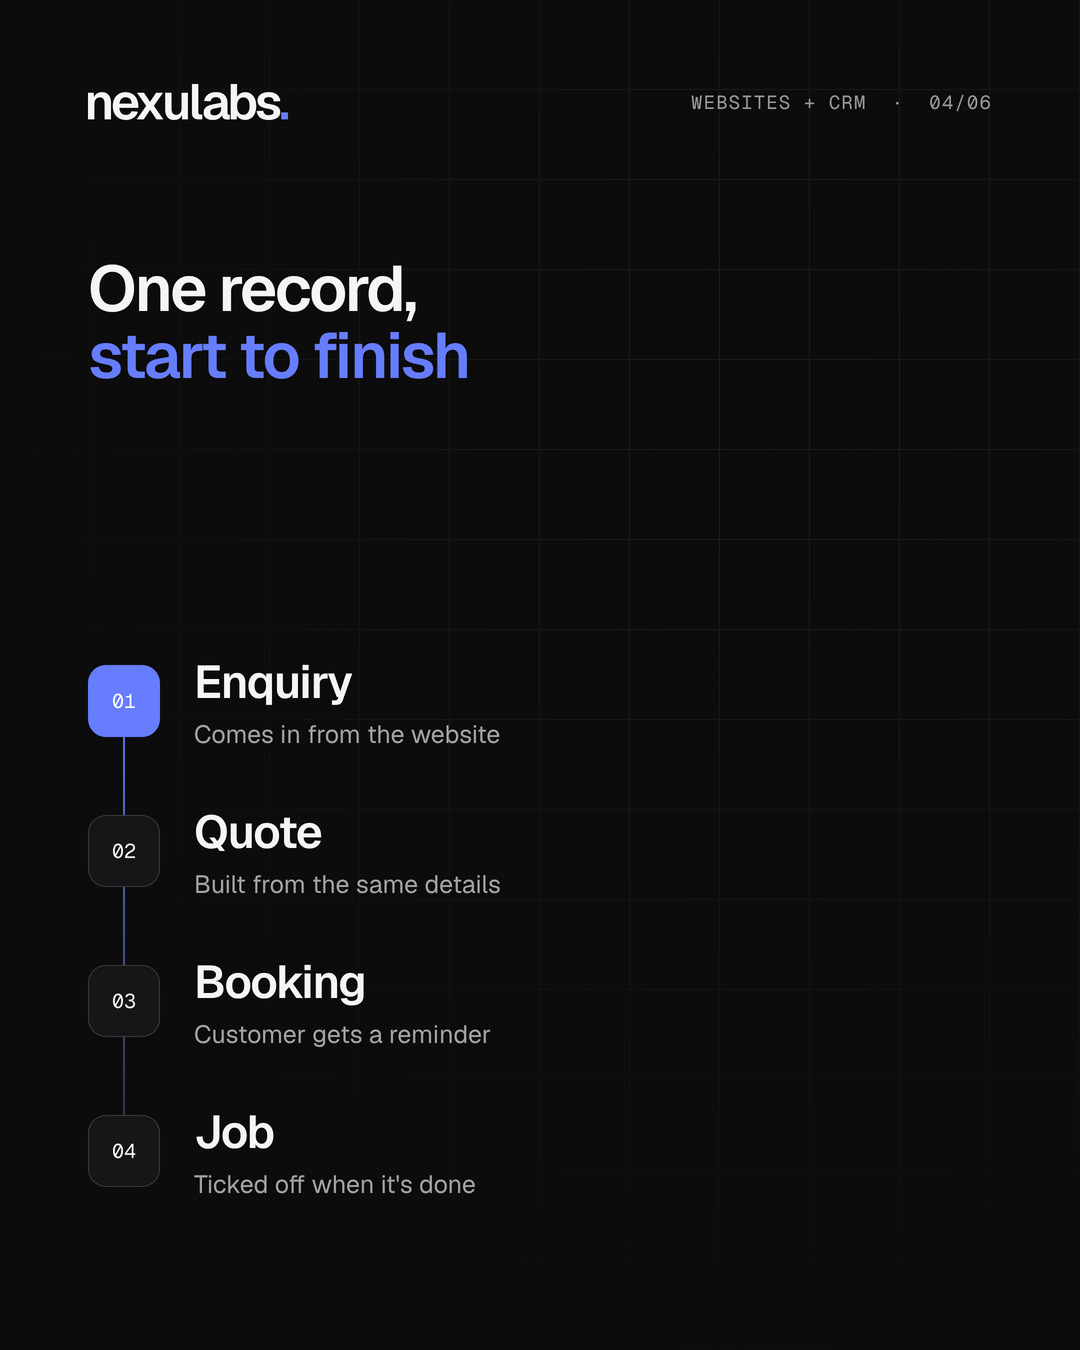
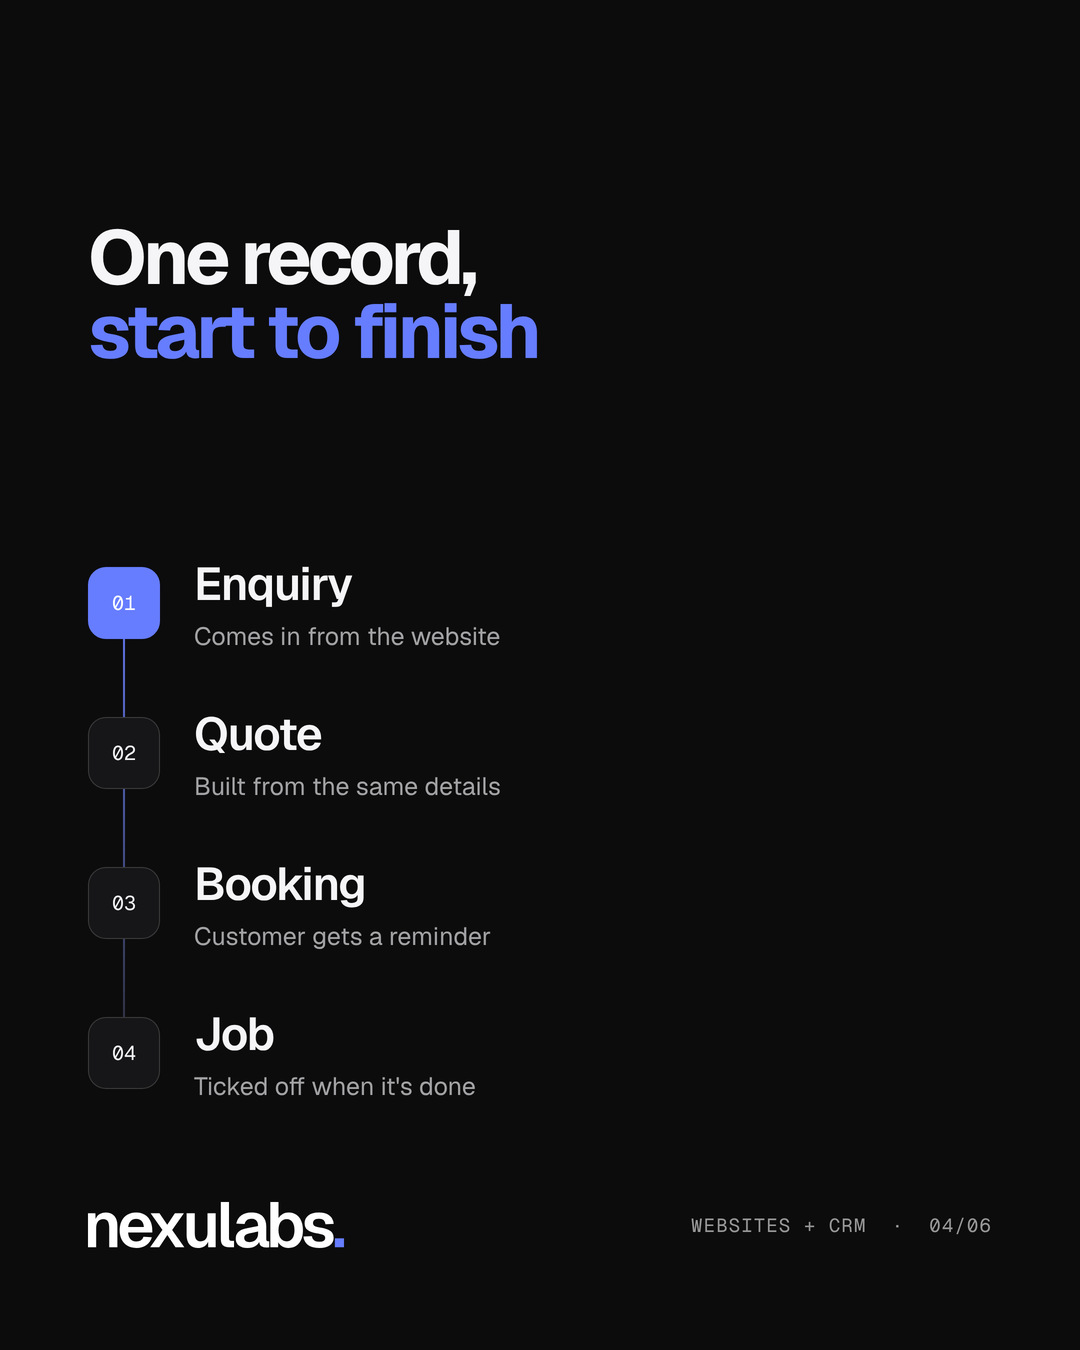
Five design styles + blue theme; restyle queued post (bold); Facebook cross-posting step
Claude-Session: https://claude.ai/code/session_015dF8thABf1mZR5gke8dfEs

diff --git a/render.py b/render.py
@@ -6,7 +6,8 @@ Writes  posts/<id>/slide-01.jpg ... (1080x1350, 4:5 portrait)
 
 Slide types: cover, stat, bars, hbars, list, quote, cta, compare, browser, palette, flow
 Text markup: *word* -> accent colour. Line breaks with \n.
-Themes: "ink" (dark) or "paper" (light).
+Themes: "ink" (dark), "paper" (light) or "blue" (brand blue background).
+Post-level "style": studio | editorial | bold | minimal | poster (rotate; never the same two posts running).
 """
 import html, json, re, sys
 from pathlib import Path
@@ -41,8 +42,8 @@ CSS = f"""
 html,body{{width:1080px;height:1350px;overflow:hidden}}
 body{{font-family:Text;-webkit-font-smoothing:antialiased;font-feature-settings:"tnum"}}
 .s{{position:relative;width:1080px;height:1350px;padding:84px 88px;display:flex;flex-direction:column;overflow:hidden}}
-.ink{{background:{INK};color:{PAPER};--acc:{ACCENT_DARK}}}
-.paper{{background:{PAPER};color:{INK};--acc:{ACCENT}}}
+.ink{{background:{INK};color:{PAPER};--acc:{ACCENT_DARK};--fg:{PAPER}}}
+.paper{{background:{PAPER};color:{INK};--acc:{ACCENT};--fg:{INK}}}
 .acc{{color:var(--acc)}}
 .grid{{position:absolute;inset:0;pointer-events:none;opacity:.07;
  background-image:linear-gradient(currentColor 1px,transparent 1px),linear-gradient(90deg,currentColor 1px,transparent 1px);
@@ -164,6 +165,63 @@ p.lead{{font-size:31px;line-height:1.42;letter-spacing:-.01em;opacity:.78;max-wi
 .st.hl .dot{{background:var(--acc);border-color:var(--acc);color:#fff}}
 .st h3{{font-family:Disp;font-weight:600;font-size:46px;letter-spacing:-.03em}}
 .st p{{font-size:25px;opacity:.65;margin-top:6px}}
+/* ===== blue theme ===== */
+.blue{{background:{ACCENT};color:#FFFFFF;--acc:#0B0B0C;--fg:#FFFFFF}}
+.blue .grid{{opacity:.12}}
+.blue .row .track{{background:rgba(255,255,255,.22)}}
+.blue .row.hl .fill{{background:#0B0B0C}}
+.blue .col .bar{{background:#fff;opacity:.35}}
+.blue .col.hl .bar{{background:#0B0B0C;opacity:1}}
+.blue .card.good{{background:rgba(255,255,255,.12);border-color:#fff}}
+.blue .card.good .lb{{color:#fff}}
+.blue .ctabox .btn{{background:#0B0B0C}}
+.blue .st .dot{{background:rgba(255,255,255,.12)}}
+.blue .st.hl .dot{{background:#0B0B0C;border-color:#0B0B0C}}
+/* ===== style: editorial ===== */
+.st-editorial .grid,.st-editorial .glow{{display:none}}
+.st-editorial .top{{padding-bottom:26px;border-bottom:2px solid currentColor}}
+.st-editorial .foot{{border-top:2px solid currentColor;padding-top:22px;opacity:.75}}
+.st-editorial h1{{font-weight:500;letter-spacing:-.055em}}
+.st-editorial h2{{font-weight:500;letter-spacing:-.045em;font-size:72px}}
+.st-editorial .kicker:before{{display:none}}
+.st-editorial .kicker{{font-size:20px;opacity:.7}}
+.st-editorial .big{{font-weight:500}}
+.st-editorial .card,.st-editorial .ctabox,.st-editorial .bw{{border-radius:4px}}
+.st-editorial .ctabox .btn{{border-radius:4px}}
+.st-editorial .row .track,.st-editorial .row .fill{{border-radius:0;height:14px}}
+.st-editorial .col .bar{{border-radius:0}}
+/* ===== style: bold ===== */
+.st-bold .grid,.st-bold .glow{{display:none}}
+.st-bold .body{{order:1}}
+.st-bold .top{{order:2;margin-top:34px}}
+.st-bold .foot{{order:3;margin-top:18px}}
+.st-bold .mark svg{{height:46px}}
+.st-bold h1{{font-weight:700;letter-spacing:-.06em;line-height:.9}}
+.st-bold h2{{font-weight:700;letter-spacing:-.05em;font-size:76px;line-height:.98}}
+.st-bold .big{{font-weight:700;letter-spacing:-.075em}}
+.st-bold .kicker{{opacity:.85}}
+/* ===== style: minimal ===== */
+.st-minimal .grid,.st-minimal .glow,.st-minimal .grain{{display:none}}
+.st-minimal .top{{justify-content:center}}
+.st-minimal .meta{{display:none}}
+.st-minimal .mark svg{{height:30px}}
+.st-minimal .body{{text-align:center;align-items:center}}
+.st-minimal .kicker{{justify-content:center}}
+.st-minimal .kicker:before{{display:none}}
+.st-minimal h1{{font-weight:500;letter-spacing:-.05em}}
+.st-minimal h2{{font-weight:500}}
+.st-minimal p.lead{{margin-left:auto;margin-right:auto}}
+.st-minimal .big{{margin-left:0}}
+.st-minimal .items,.st-minimal .hb,.st-minimal .cmp,.st-minimal .fl,.st-minimal .bw,.st-minimal .sw,.st-minimal .chart,.st-minimal .xl,.st-minimal .ctabox,.st-minimal .legend{{text-align:left;align-self:stretch}}
+.st-minimal .foot{{justify-content:center;text-align:center}}
+/* ===== style: poster ===== */
+.st-poster .grid{{display:none}}
+.deco{{position:absolute;z-index:1;font-family:Disp;font-weight:700;line-height:.78;letter-spacing:-.07em;white-space:nowrap;
+ color:transparent;-webkit-text-stroke:4px var(--fg);opacity:.2;pointer-events:none}}
+.st-poster h1{{font-weight:700;letter-spacing:-.06em}}
+.st-poster h2{{font-weight:700}}
+.st-poster .top{{border:1.5px solid rgba(127,127,127,.35);border-radius:999px;padding:16px 26px}}
+.st-poster .mark svg{{height:30px}}
 """
 
 
@@ -171,19 +229,24 @@ LOGO_SVG = (ROOT / "brand" / "nexulabs-logo-white.svg").read_text()
 
 
 def logo(theme):
-    fg = PAPER if theme == "ink" else INK
-    dot = ACCENT_DARK if theme == "ink" else ACCENT
+    fg = INK if theme == "paper" else "#FFFFFF"
+    dot = {"ink": ACCENT_DARK, "paper": ACCENT, "blue": INK}.get(theme, ACCENT)
     return (LOGO_SVG.replace('fill="#FFFFFF"', f'fill="{fg}"').replace('fill="#667DFF"', f'fill="{dot}"')
             .replace('<title>nexulabs</title>', ''))
 
 
-def frame(slide, idx, total, series, inner, foot_left="", foot_right=""):
+def frame(slide, idx, total, series, inner, foot_left="", foot_right="", style="studio"):
     theme = slide.get("theme", "paper")
     glow = ""
     if slide.get("glow", theme == "ink"):
         glow = f'<div class="glow{" low" if slide.get("glow_low") else ""}"></div>'
-    return f"""<section class="s {theme} {slide['type']}">
-{glow}<div class="grid"></div>
+    deco = ""
+    if style == "poster" and slide.get("deco", None) != "":
+        d = html.escape(str(slide.get("deco", f"{idx:02d}")))
+        size = slide.get("deco_size", 880 if len(d) <= 2 else 520)
+        deco = f'<div class="deco" style="font-size:{size}px;right:-40px;bottom:-60px">{d}</div>'
+    return f"""<section class="s {theme} {slide['type']} st-{style}">
+{glow}<div class="grid"></div>{deco}
 <div class="top"><div class="mark">{logo(theme)}</div>
 <div class="meta">{html.escape(series)}{f" &nbsp;·&nbsp; {idx:02d}/{total:02d}" if total > 1 else ""}</div></div>
 <div class="body">{inner}</div>
@@ -201,7 +264,7 @@ def src(slide):
     return f"Source: {html.escape(s)}" if s else ""
 
 
-def build(slide, idx, total, series):
+def build(slide, idx, total, series, style="studio"):
     t = slide["type"]
     fr = ""
     if t == "cover":
@@ -291,7 +354,7 @@ def build(slide, idx, total, series):
 <h2>{md(slide['title'])}</h2>{f'<p class="lead" style="margin-top:24px">{md(slide["sub"])}</p>' if slide.get('sub') else ''}<div class="sw">{rows}</div><div style="height:48px"></div>"""
     else:
         raise ValueError(f"unknown slide type {t}")
-    return frame(slide, idx, total, series, inner, src(slide), fr)
+    return frame(slide, idx, total, series, inner, src(slide), fr, style)
 
 
 def render(spec_path):
@@ -306,7 +369,7 @@ def render(spec_path):
         b = p.chromium.launch(executable_path="/usr/bin/google-chrome") if Path("/usr/bin/google-chrome").exists() else p.chromium.launch()
         pg = b.new_page(viewport={"width": 1080, "height": 1350}, device_scale_factor=2)
         for i, s in enumerate(slides, 1):
-            doc = f"<!doctype html><html><head><meta charset='utf-8'><style>{CSS}</style></head><body>{build(s, i, len(slides), spec.get('series',''))}</body></html>"
+            doc = f"<!doctype html><html><head><meta charset='utf-8'><style>{CSS}</style></head><body>{build(s, i, len(slides), spec.get('series',''), spec.get('style','studio'))}</body></html>"
             tmp = out / f".slide-{i:02d}.html"
             tmp.write_text(doc)
             pg.goto(tmp.as_uri())

diff --git a/PLAYBOOK.md b/PLAYBOOK.md
@@ -44,6 +44,18 @@ Posts must read as if Lee wrote them himself. If a line sounds like marketing co
 - Vary the format: some days a single image, some days 3–5 slides, occasionally 6–7. Only end with the CTA slide about every other post.
 - Rotate layouts so posts don't all look the same: change which slide types you use, and swap ink/paper order.
 
+## Make every post look different (Lee's rule, 6 Nov 2026)
+Lee noticed the first posts all looked the same. Every post must look clearly different from the one before it.
+- Set a post-level `"style"` in post.json. Five styles exist in render.py:
+  - `studio`: grid, soft blue glow, logo top-left
+  - `editorial`: magazine feel, thin rules above and below, lighter headline weight, square corners
+  - `bold`: heavy type, logo moved to the bottom, works best with a `blue` cover
+  - `minimal`: centred, no decoration, small centred logo
+  - `poster`: big outlined numbers or a character in the background (`"deco"` per slide; `"deco": ""` to hide), pill-shaped header
+- Never use the same style as the previous post (check `log.json`, which records `style`). Cycle through all five before repeating one.
+- Mix the three themes: `ink` (dark), `paper` (light) and `blue` (brand blue background). Change the cover theme from post to post, and don't always alternate dark/light in the same order.
+- Vary the structure too: single image vs carousel, slide count, which slide types are used.
+
 ## Accuracy rules (non-negotiable)
 - Every number on a slide must come from a source fetched during the run, published within the last ~24 months, preferably UK. Prefer primary sources (gov.uk, ONS, BCC, FSB, Ofcom, Enterprise Nation, vendor research with stated methodology).
 - Put the source on the slide (`source` field) and name it in the caption.
@@ -67,6 +79,7 @@ See `render.py` docstring. Types: cover, stat, bars, hbars, list, quote, cta, co
 3. Create `posts/YYYY-MM-DD-<slug>/post.json` and `caption.txt`. Render: `python3 render.py posts/<id>/post.json`.
 4. Build a contact sheet, look at every slide, fix and re-render until clean.
 5. Commit and push to `main`. Confirm each image URL loads: `https://raw.githubusercontent.com/wheatus2/nexulabs-social/main/posts/<id>/slide-NN.jpg`.
-6. Publish via Zapier MCP: app Instagram for Business, action `publish_media_v2` (tool `instagram_for_business_publish_photo_s`), `instagramPageId` = `17841471856846758` (Nexulabs), `media` = list of the raw URLs in order, `caption` = caption.txt.
-7. Fetch the permalink via the Make API GET Request action (`https://graph.facebook.com/v21.0/<media_id>?fields=permalink`), append an entry to `log.json`, commit and push.
+6. Publish to Instagram via Zapier MCP: app Instagram for Business, action `publish_media_v2` (tool `instagram_for_business_publish_photo_s`), `instagramPageId` = `17841471856846758` (Nexulabs), `media` = list of the raw URLs in order, `caption` = caption.txt.
+6b. Also publish to the Nexulabs Facebook Page via Zapier MCP: app Facebook Pages, action `page_stream` (tool `facebook_pages_create_page_post`), `page` = the Nexulabs Page (resolve the dynamic `page` value with inspect_zapier_actions), `source` = the same raw image URLs in order (up to 10), `message` = caption.txt. If Facebook Pages has no connection yet, skip this step and mention it in the summary. A Facebook failure must not stop or undo the Instagram post.
+7. Fetch the permalink via the Make API GET Request action (`https://graph.facebook.com/v21.0/<media_id>?fields=permalink`), append an entry to `log.json` (include `style`, `cover_theme` and `facebook_post_id` if posted), commit and push.
 8. If publishing fails: retry once after 2 minutes. If it's an auth/token error, tell Lee to reconnect Instagram at https://mcp.zapier.com/api/v1/connect-auth/InstagramBusinessCLIAPI?accountId=8724593.
